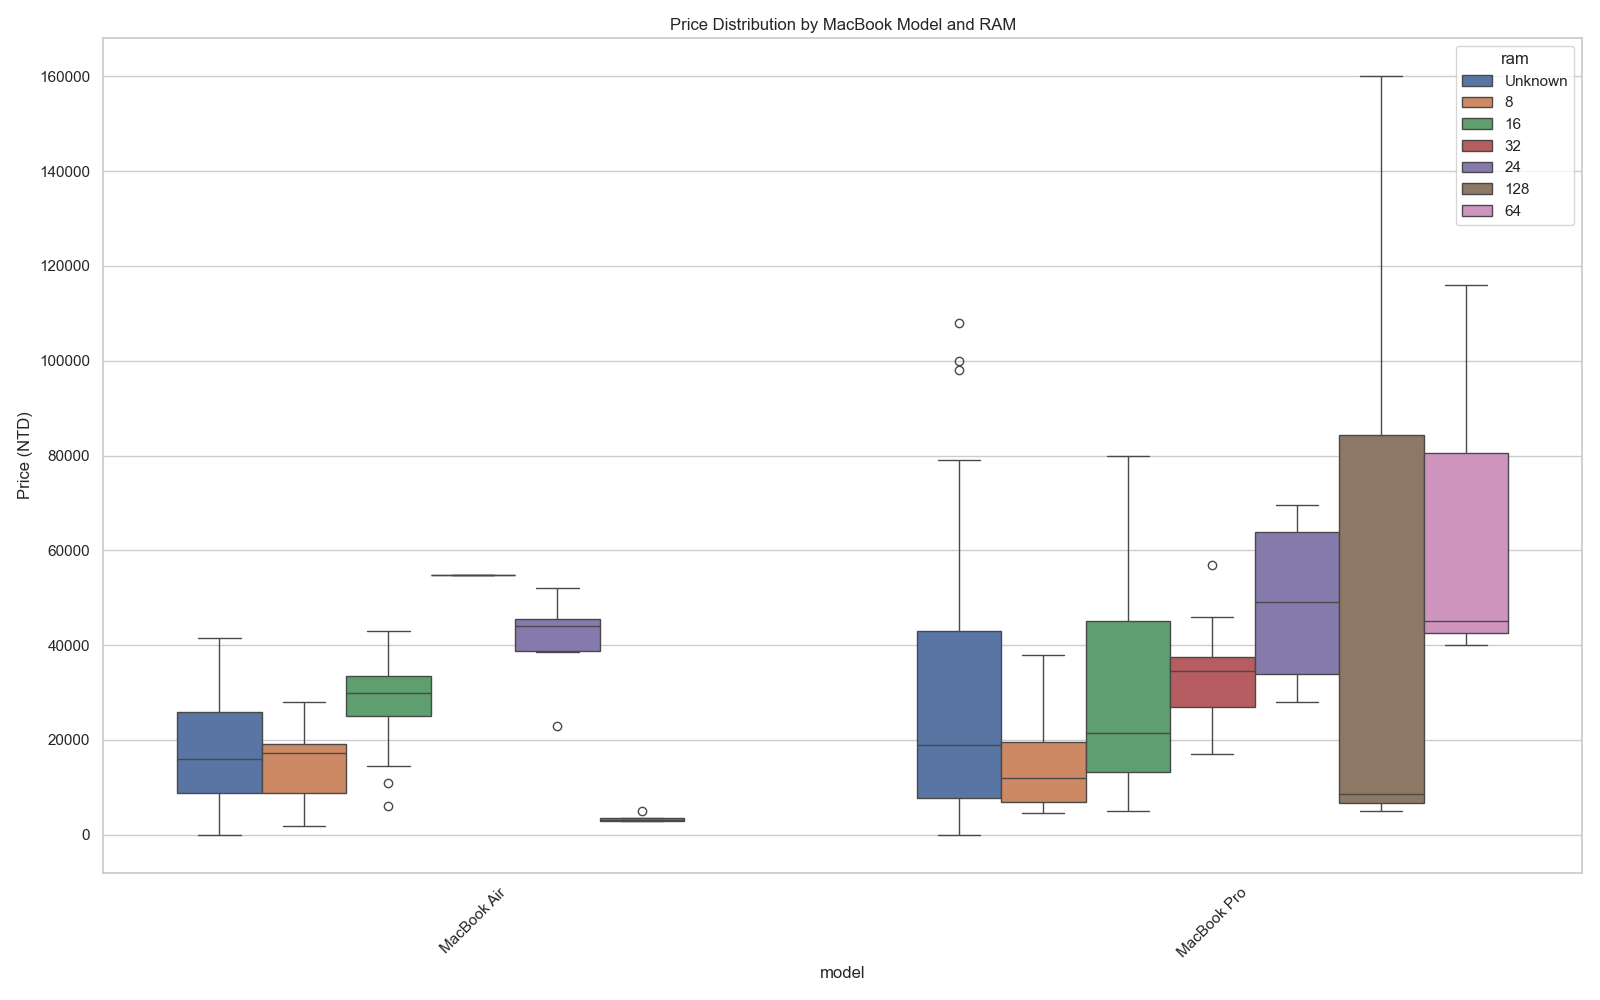
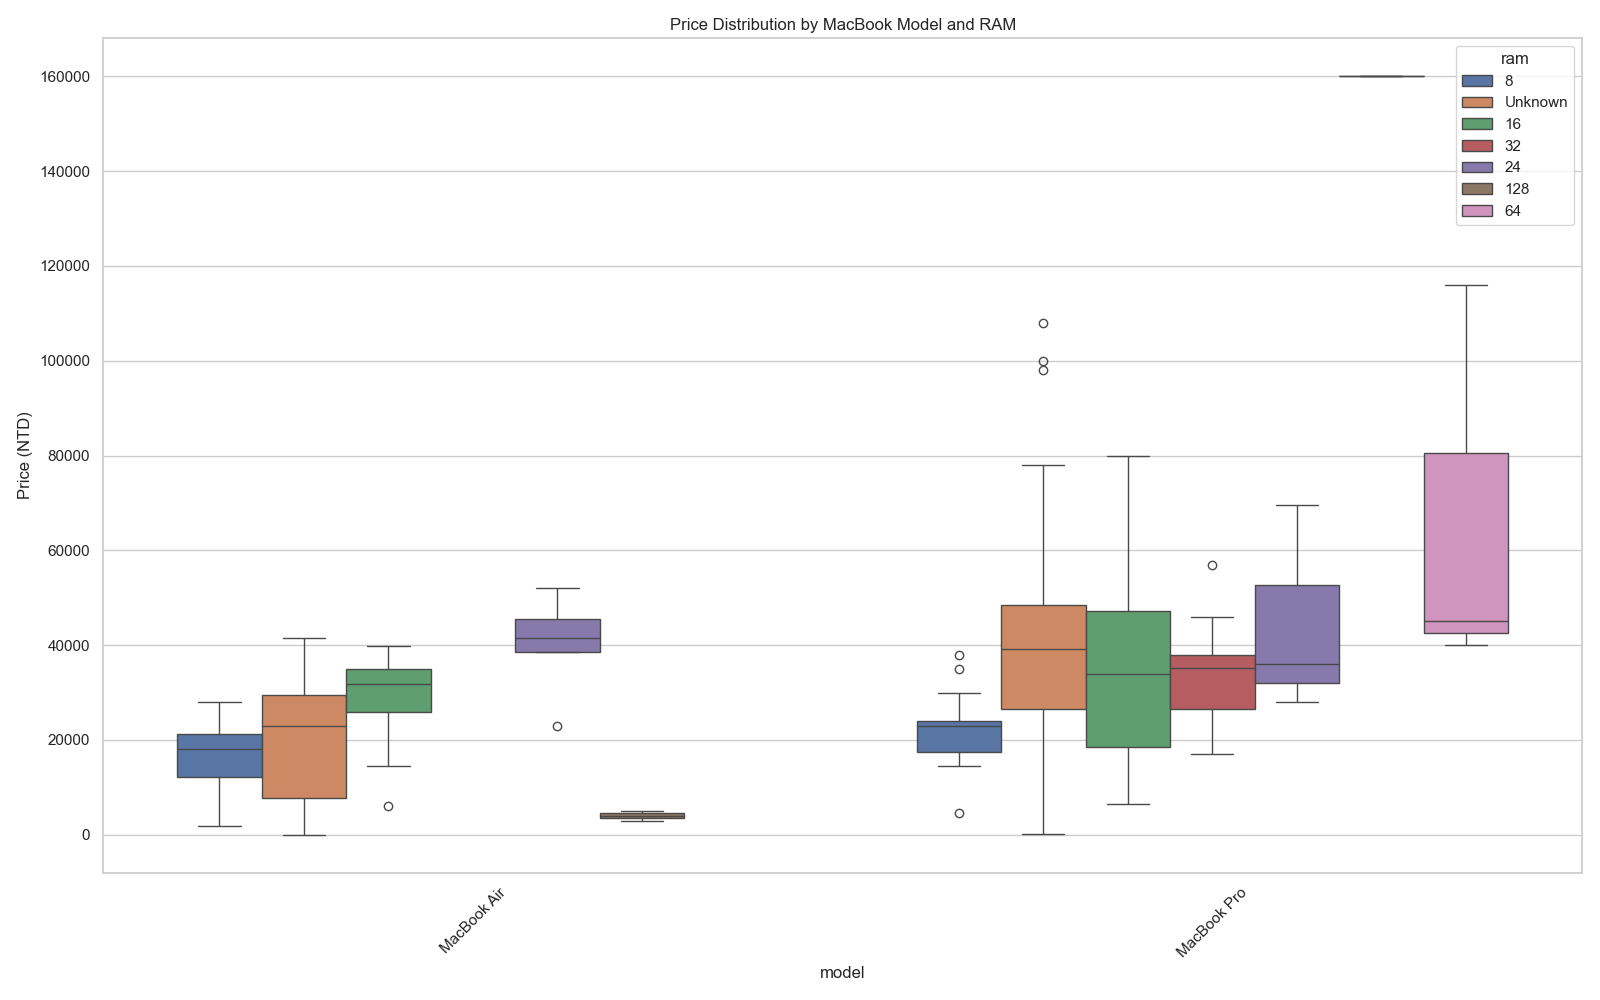
Disallow nonexistent combinations like MacBook Air 14”/16” and M1 14”/16” without Pro/Max. Only allow valid Pro variants (e.g., M1Pro, M1Max) for 14”/16” models.

diff --git a/app.py b/app.py
@@ -66,11 +66,23 @@ def extract_macbook_model(title):
     size_match = re.search(r"(13|14|15|16)(\s*\"|\s*inch)?", title)
     screen = f"{size_match.group(1)}" if size_match else "Unknown"
 
+    # Validate combinations
     if is_air:
-        return "MacBook Air", processor or "Unknown", screen
+        if screen not in ["13", "15"]:
+            return "MacBook Unknown", processor or "Unknown", screen
+        if processor in ["M1", "M2", "M3"]:
+            return "MacBook Air", processor, screen
+        return "MacBook Air", "Unknown", screen
 
     if is_pro:
-        return "MacBook Pro", processor or "Unknown", screen
+        if screen == "13" and processor in ["M1", "M2"]:
+            return "MacBook Pro", processor, screen
+        elif screen in ["14", "16"]:
+            valid_pros = ["M1Pro", "M1Max", "M2Pro", "M2Max", "M3Pro", "M3Max", "M4", "Intel i7", "Intel i9"]
+            if processor in valid_pros:
+                return "MacBook Pro", processor, screen
+            else:
+                return "MacBook Pro", "Unknown", screen
 
     return "MacBook Unknown", processor or "Unknown", screen
 
